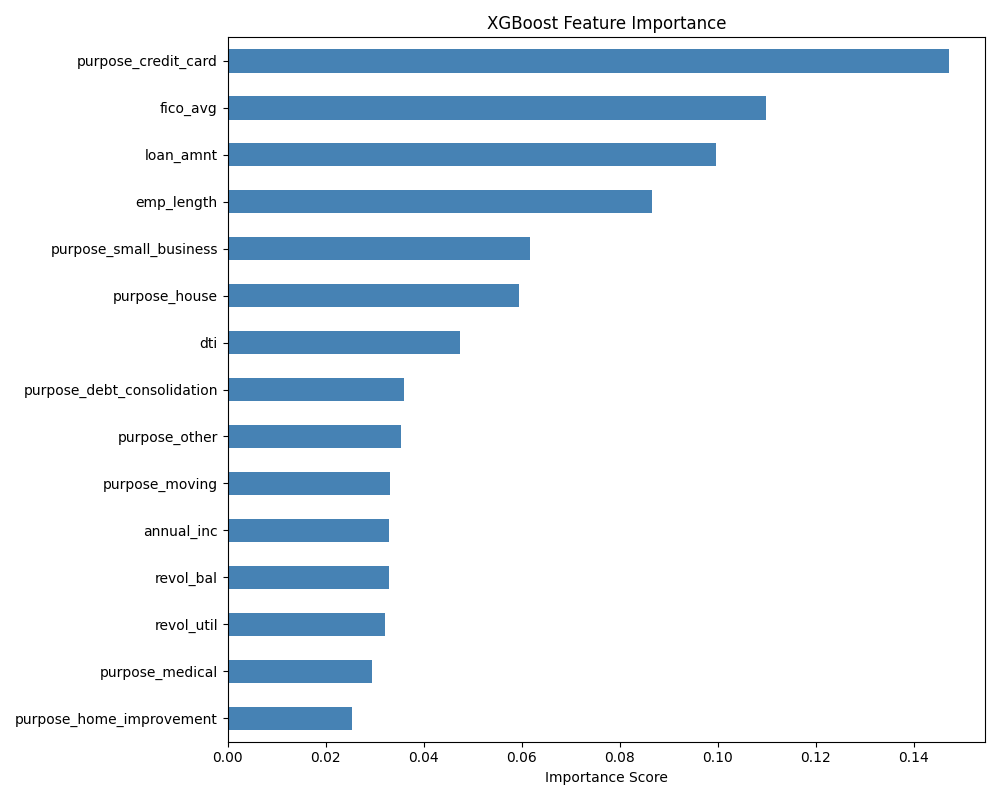
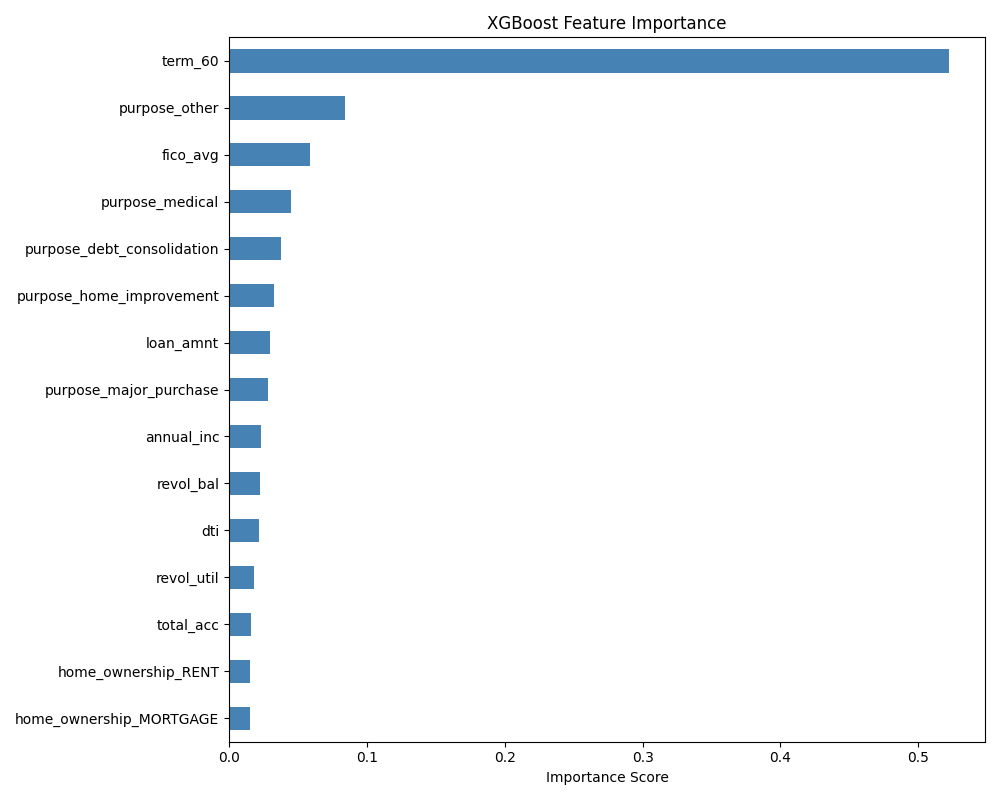
Updated Model Params

diff --git a/notebooks/xgboost_model.py b/notebooks/xgboost_model.py
@@ -33,7 +33,7 @@ print(X_train.columns.to_list())
 
 # sample_weights = y_train.map(class_weights)
 
-sample_weights= compute_sample_weight(class_weight='balanced', y=y_train)
+# sample_weights= compute_sample_weight(class_weight='balanced', y=y_train)
 
 
 # 2. Building XGBoost
@@ -46,6 +46,8 @@ model = XGBClassifier(
     learning_rate = 0.05,
     subsample= 0.8,
     colsample_bytree = 0.8,
+    min_child_weight=3,
+    gamma=0.1,
     use_label_encoder = False,
     eval_metric = 'mlogloss',
     random_state = 42,
@@ -54,7 +56,7 @@ model = XGBClassifier(
 
 model.fit(
     X_train, y_train,
-    sample_weight = sample_weights,
+    #sample_weight = sample_weights,
     eval_set=[(X_test, y_test)],
     verbose = 50
 )
@@ -66,17 +68,19 @@ print("Model Trained")
 y_pred = model.predict(X_test)
 accuracy = accuracy_score(y_test, y_pred)
 
-print(f" XGBoost Accuracy: {accuracy:.4f} ({accuracy*100:.2f}%)")
+print(f" XGBoost Accuracy: {accuracy*100:.2f}%")
 print(f"Baseline Accuracy: 35.00%")
 print(f"Improvement: +{(accuracy*100 - 35.00):.2f}%")
 
-grade_mapping = {0:'A', 1:'B', 2:'C', 3:'D', 4:'E', 5:'F', 6:'G'}
+#grade_mapping = {0:'A', 1:'B', 2:'C', 3:'D', 4:'E', 5:'F', 6:'G'}
+
+risk_mapping = {0: 'Low Risk', 1: 'Medium Risk', 2: 'High Risk'}
 
 print("--------Classification Report---------")
 
 print(classification_report(
     y_test, y_pred,
-    target_names= ['A','B','C','D','E','F','G'],
+    target_names= ['Low Risk', 'Medium Risk', 'High Risk'],
     zero_division= 0
 ))
 
@@ -85,10 +89,10 @@ print(classification_report(
 plt.figure(figsize=(10,8))
 cm= confusion_matrix(y_test,y_pred)
 sns.heatmap(cm, annot=True,fmt='d', cmap='Blues',
-            xticklabels=['A','B','C','D','E','F','G'],
-            yticklabels=['A','B','C','D','E','F','G'])
+            xticklabels=['Low Risk', 'Medium Risk', 'High Risk'],
+            yticklabels=['Low Risk', 'Medium Risk', 'High Risk'])
 
-plt.title('Confusion Matrix for PRedicted Grade vs Actual Grade')
+plt.title('Confusion Matrix for Predicted Grade vs Actual Grade')
 plt.ylabel('Actual Grade')
 plt.xlabel('Predicted Grade')
 plt.tight_layout()
@@ -127,6 +131,7 @@ shap.summary_plot(shap_to_plot, X_test[:500],
                   feature_names= X_train.columns.to_list(),
                   show=False)
 
+plt.title('SHAP Values - Medium Risk Class')
 plt.tight_layout()
 plt.savefig('src/plots/shap_plot.png')
 plt.show()
